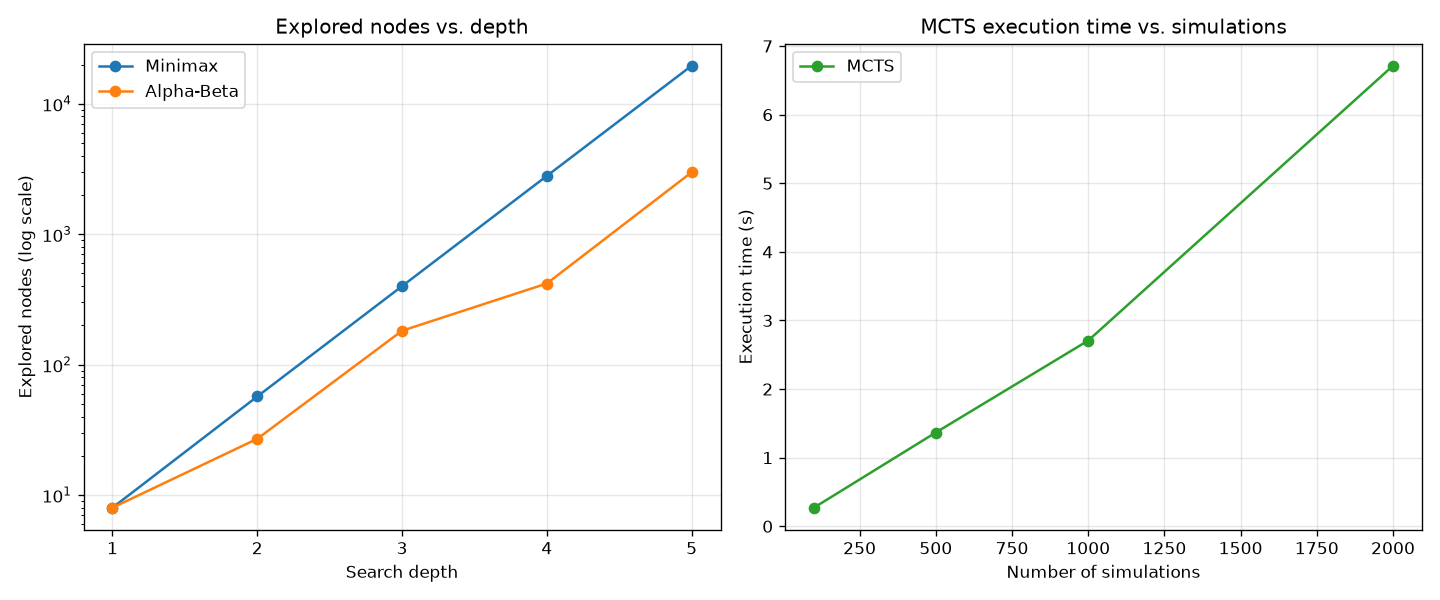
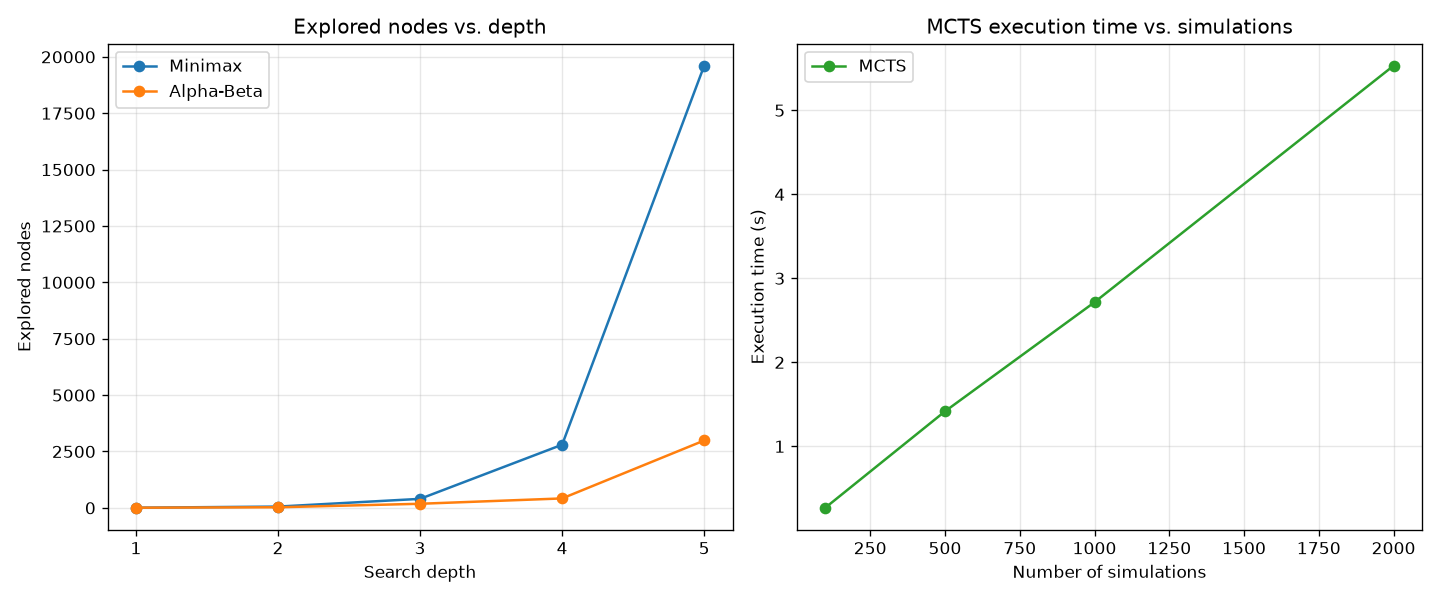
Modification du graph

diff --git a/TD3/benchmark.py b/TD3/benchmark.py
@@ -1,5 +1,3 @@
-"""Connect Four TD — benchmarking Minimax, Alpha-Beta and MCTS."""
-
 import matplotlib.pyplot as plt
 
 from algorithms import alphabeta, mcts, minimax
@@ -74,10 +72,9 @@ def plot_results(results, filename="benchmark.png"):
     for name, label in (("minimax", "Minimax"), ("alphabeta", "Alpha-Beta")):
         nodes = [r["nodes"] for r in results if r["algorithm"] == name]
         ax_nodes.plot(DEPTHS, nodes, marker="o", label=label)
-    ax_nodes.set_yscale("log")
     ax_nodes.set_xticks(DEPTHS)
     ax_nodes.set_xlabel("Search depth")
-    ax_nodes.set_ylabel("Explored nodes (log scale)")
+    ax_nodes.set_ylabel("Explored nodes")
     ax_nodes.set_title("Explored nodes vs. depth")
     ax_nodes.legend()
     ax_nodes.grid(True, alpha=0.3)
